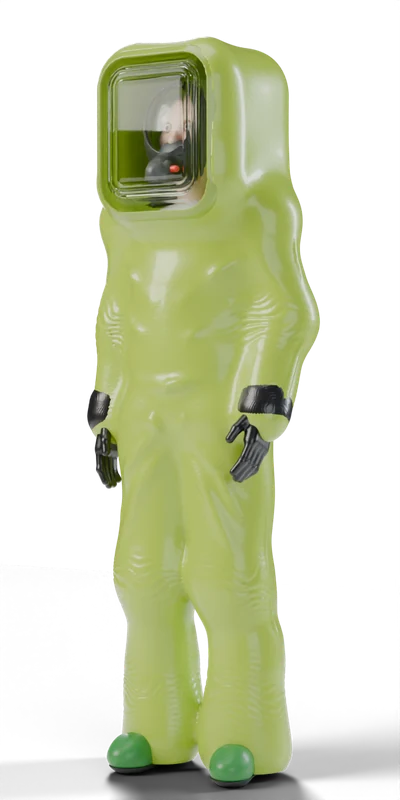
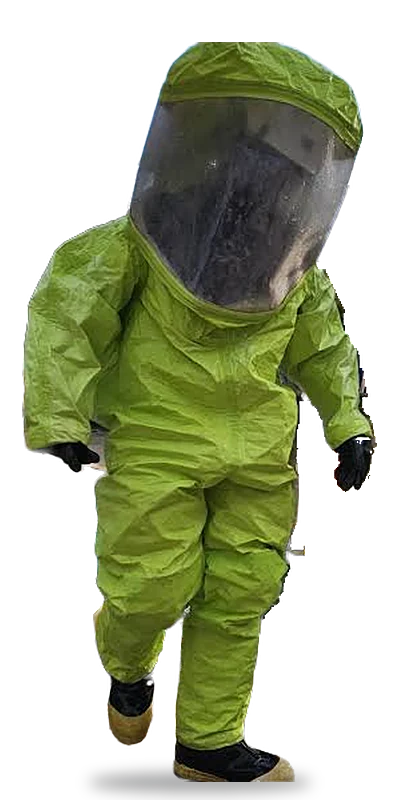
Níveis A, B e C com fotos reais (recorte de foto) no lugar do 3D
A e B recortados da foto de treinamento enviada; C da foto de produto
enviada. D continua 3D até chegar foto real. Cache das figuras v=5.

Claude-Session: https://claude.ai/code/session_01UdsL3bCh6iyzEWJU9jDkJQ

diff --git a/index.html b/index.html
@@ -1821,7 +1821,7 @@ function foot(){var names={e:{pt:'EPI e EPR',en:'PPE and RPE',es:'EPP y EPR'}[st
 /*EPI-JS*/
 /* ---------- EPI / EPR (fluxogramas da ABNT NBR 14064:2015) ---------- */
 /* ---- figuras: renderizações 2,5D (suitart/render.py, products.py) em fig/epi/ ---- */
-function epImg(n,w,h,alt){return '<img class="epfig" src="fig/epi/'+n+'.webp?v=4" width="'+w+'" height="'+h+'" alt="'+esc(alt)+'" decoding="async">';}
+function epImg(n,w,h,alt){return '<img class="epfig" src="fig/epi/'+n+'.webp?v=5" width="'+w+'" height="'+h+'" alt="'+esc(alt)+'" decoding="async">';}
 function epFig(k){return epImg(k,200,400,EPX().lv[k][0]);}
 function epGear(k){return epImg(k,200,240,EPX().lv[k][0]);}
 function epTypeFig(k){var n={scba:'S',full:'P'}[k]||k;return epImg(n,200,240,EPTX().it[k][0]);}
